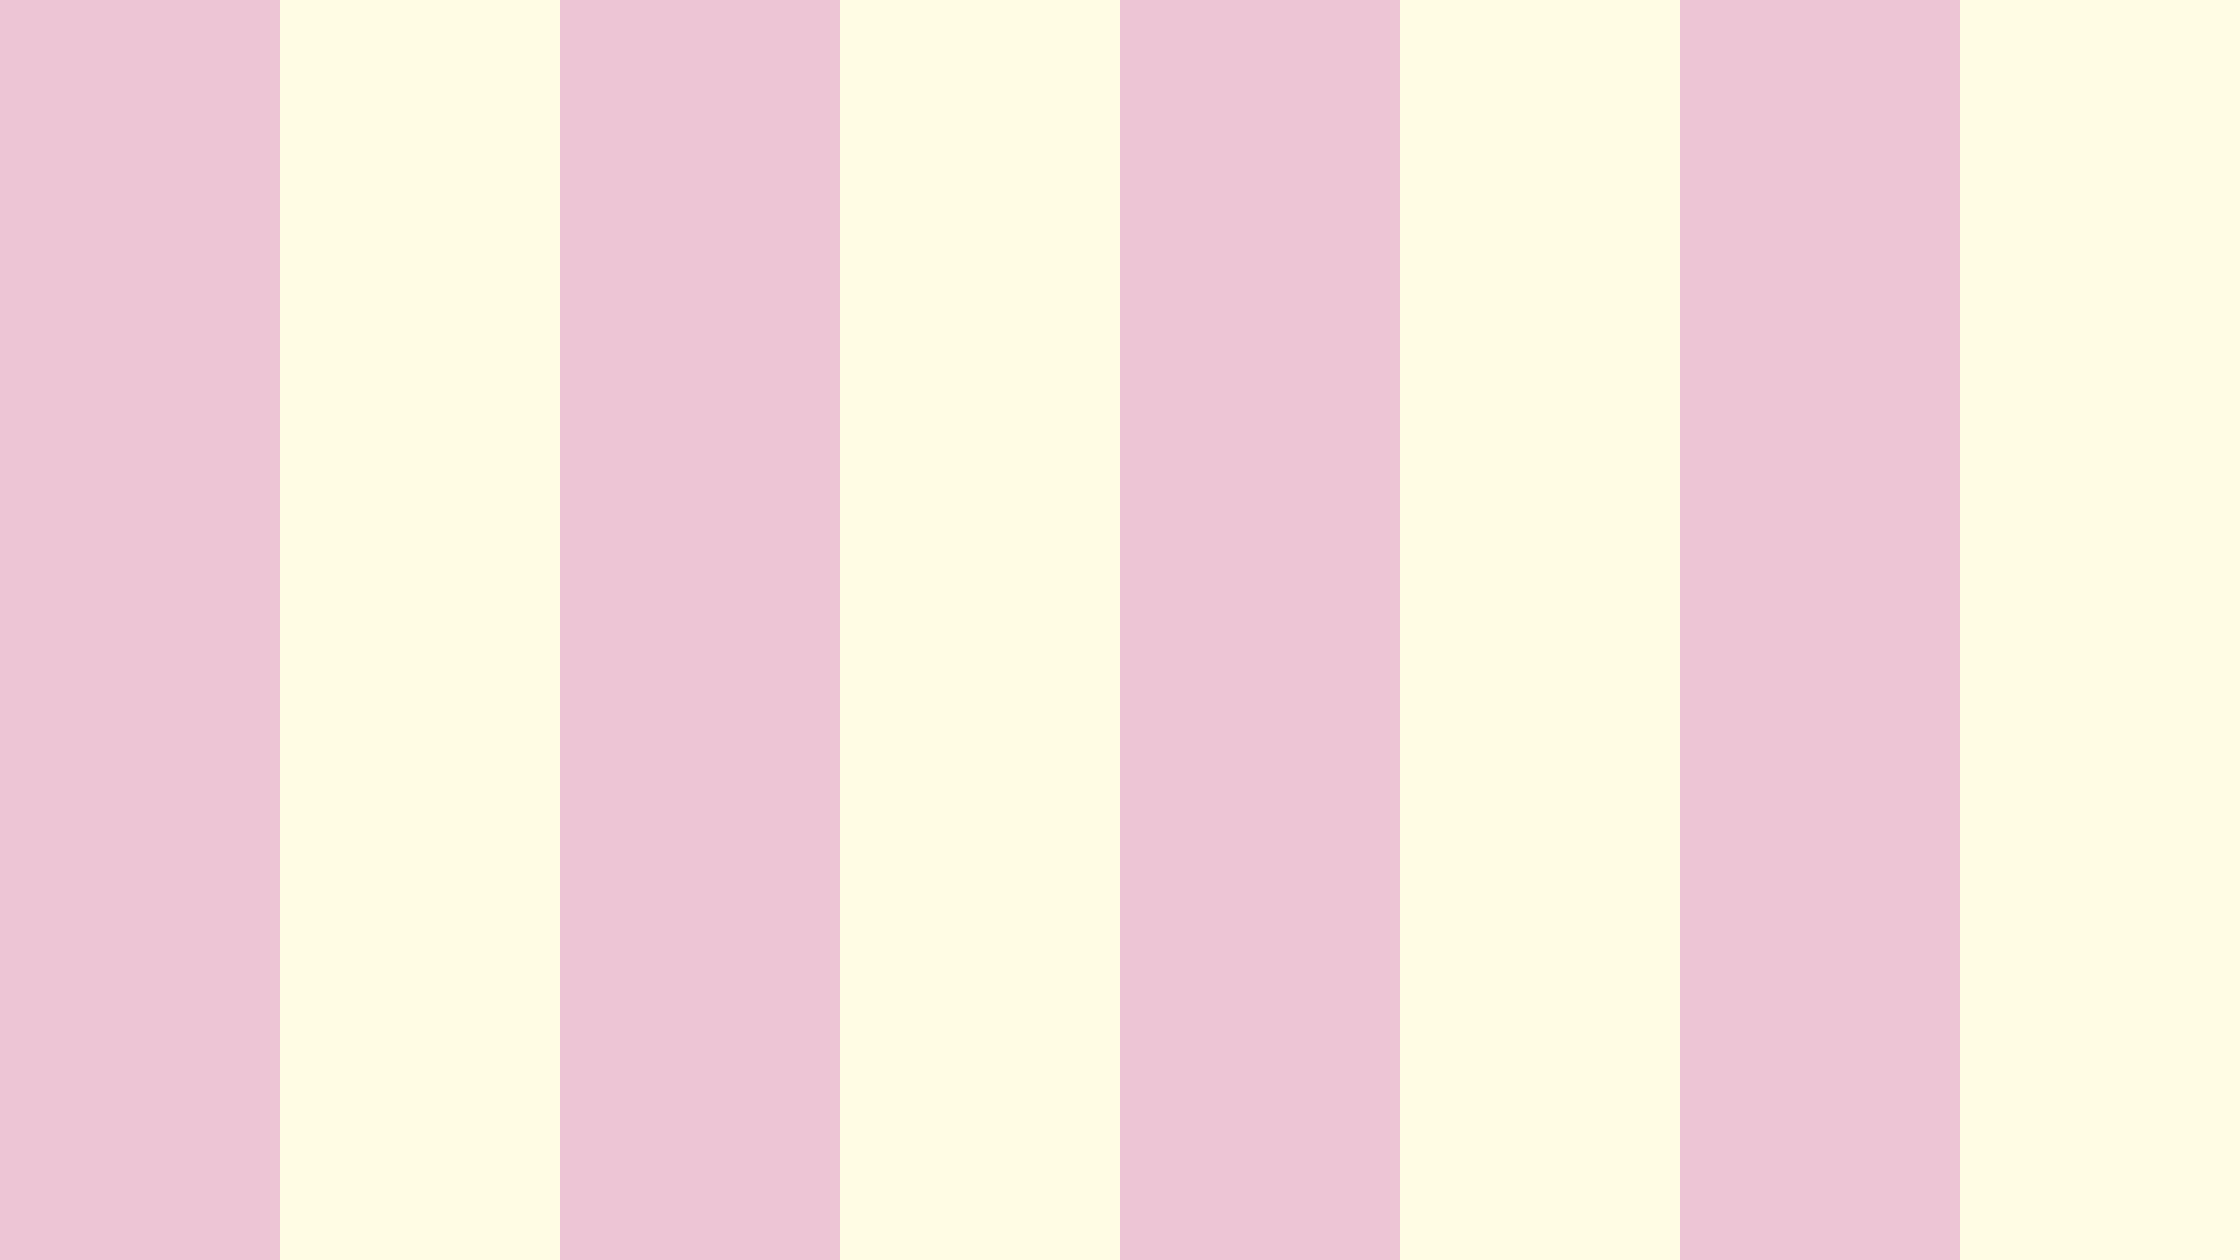
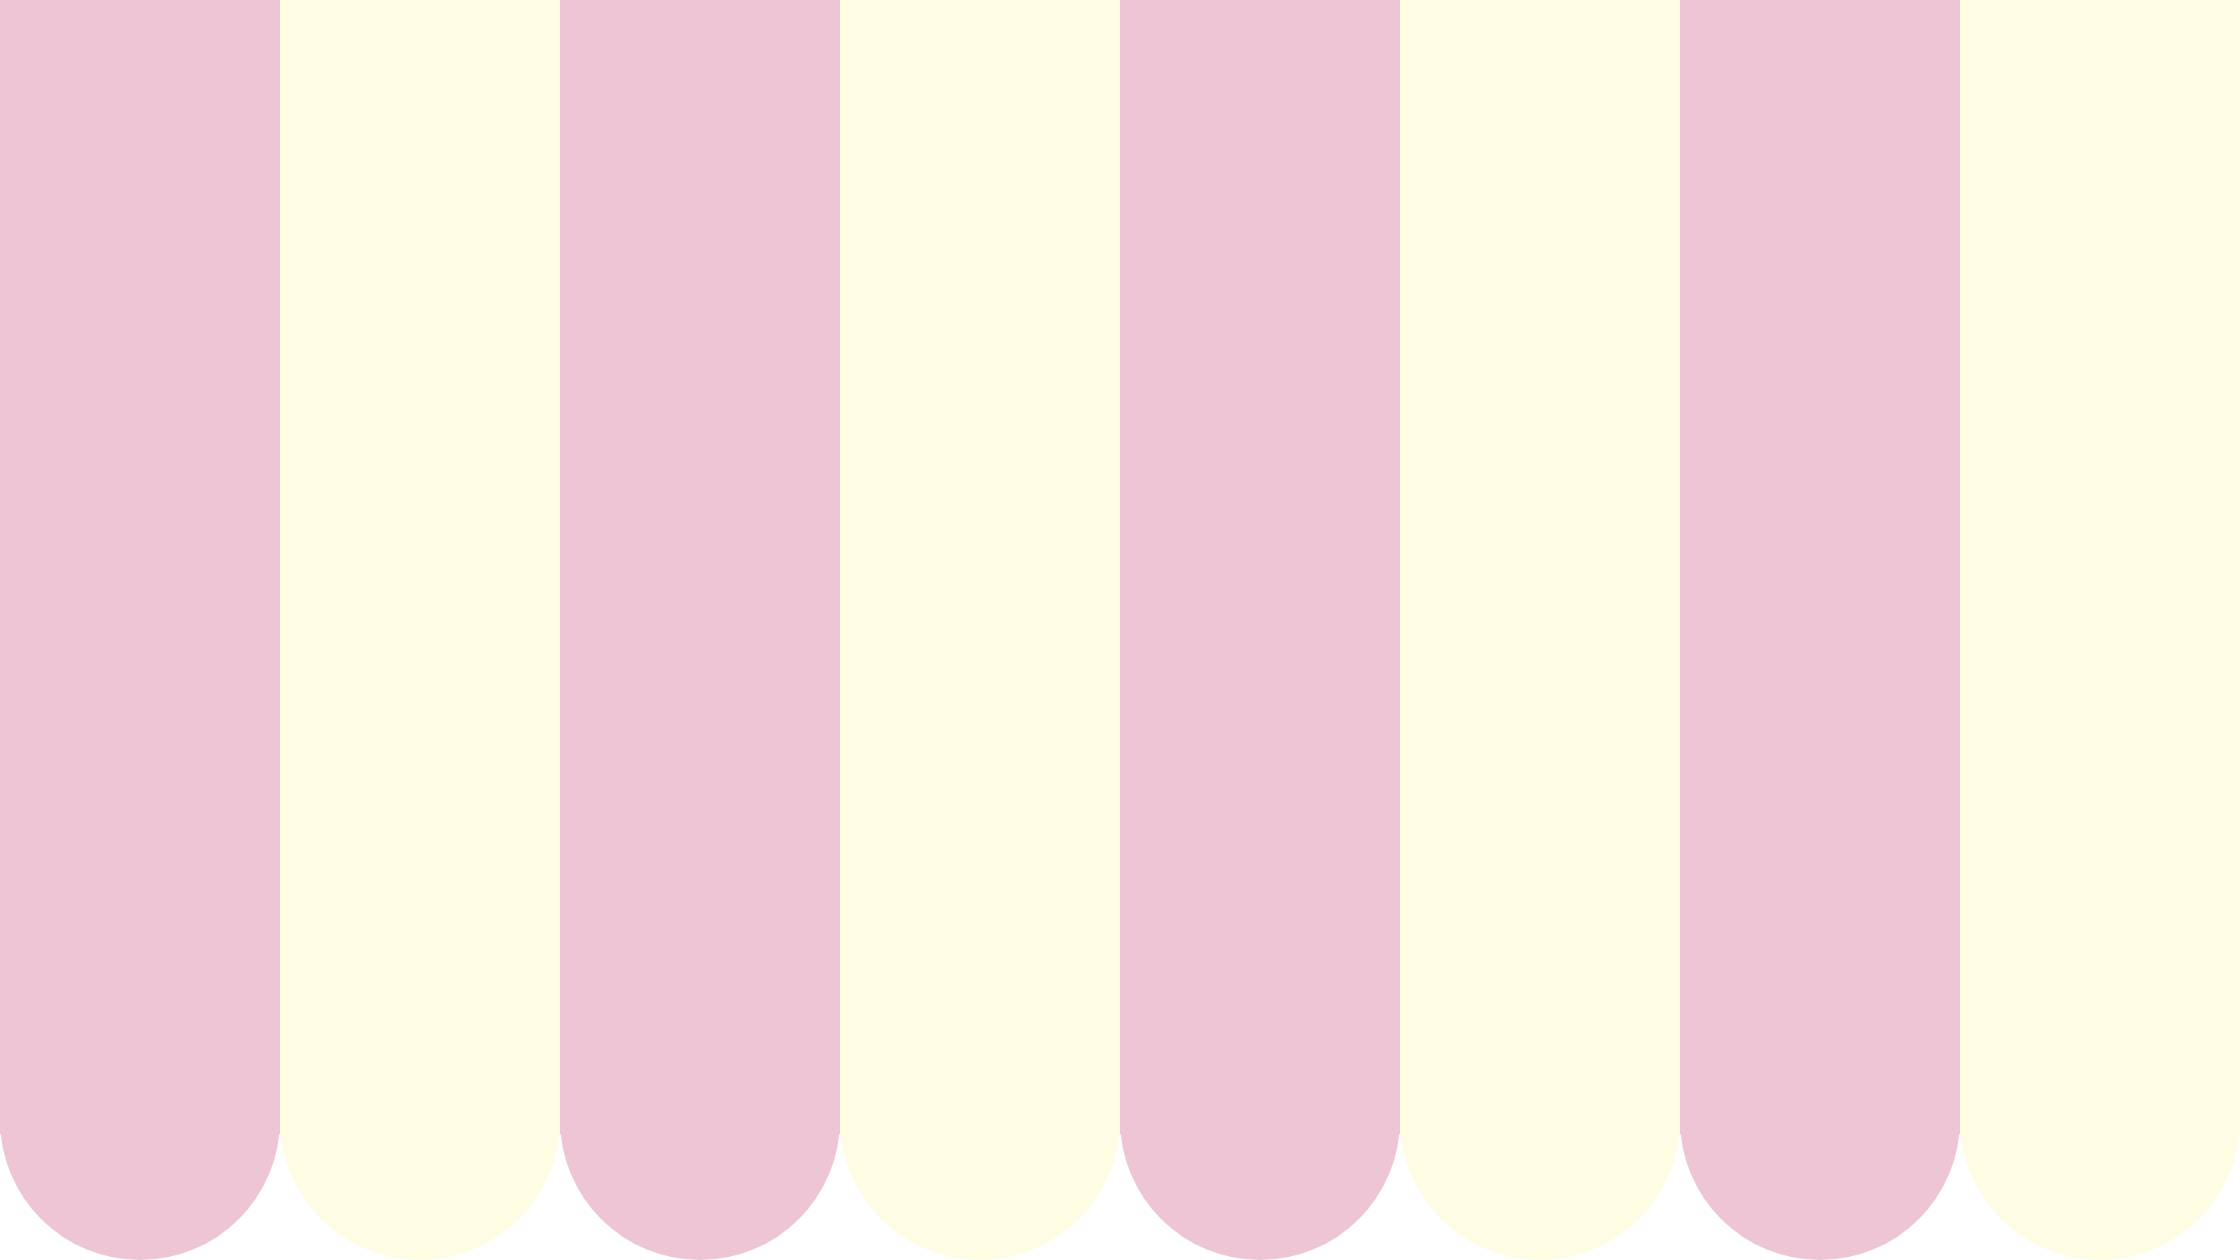
Added scallop design landing page header

Changed region(s): [[0.0, 0.9286, 1.0, 1.0]]

diff --git a/styles.css b/styles.css
@@ -20,7 +20,8 @@
 /* Landing page styles */
 .landing-header {
     background-image: url("img/awning-design.png");
-    background-size: cover;
+    background-size: contain;
+    background-position: bottom-right;
 }
 
 .header-text {
